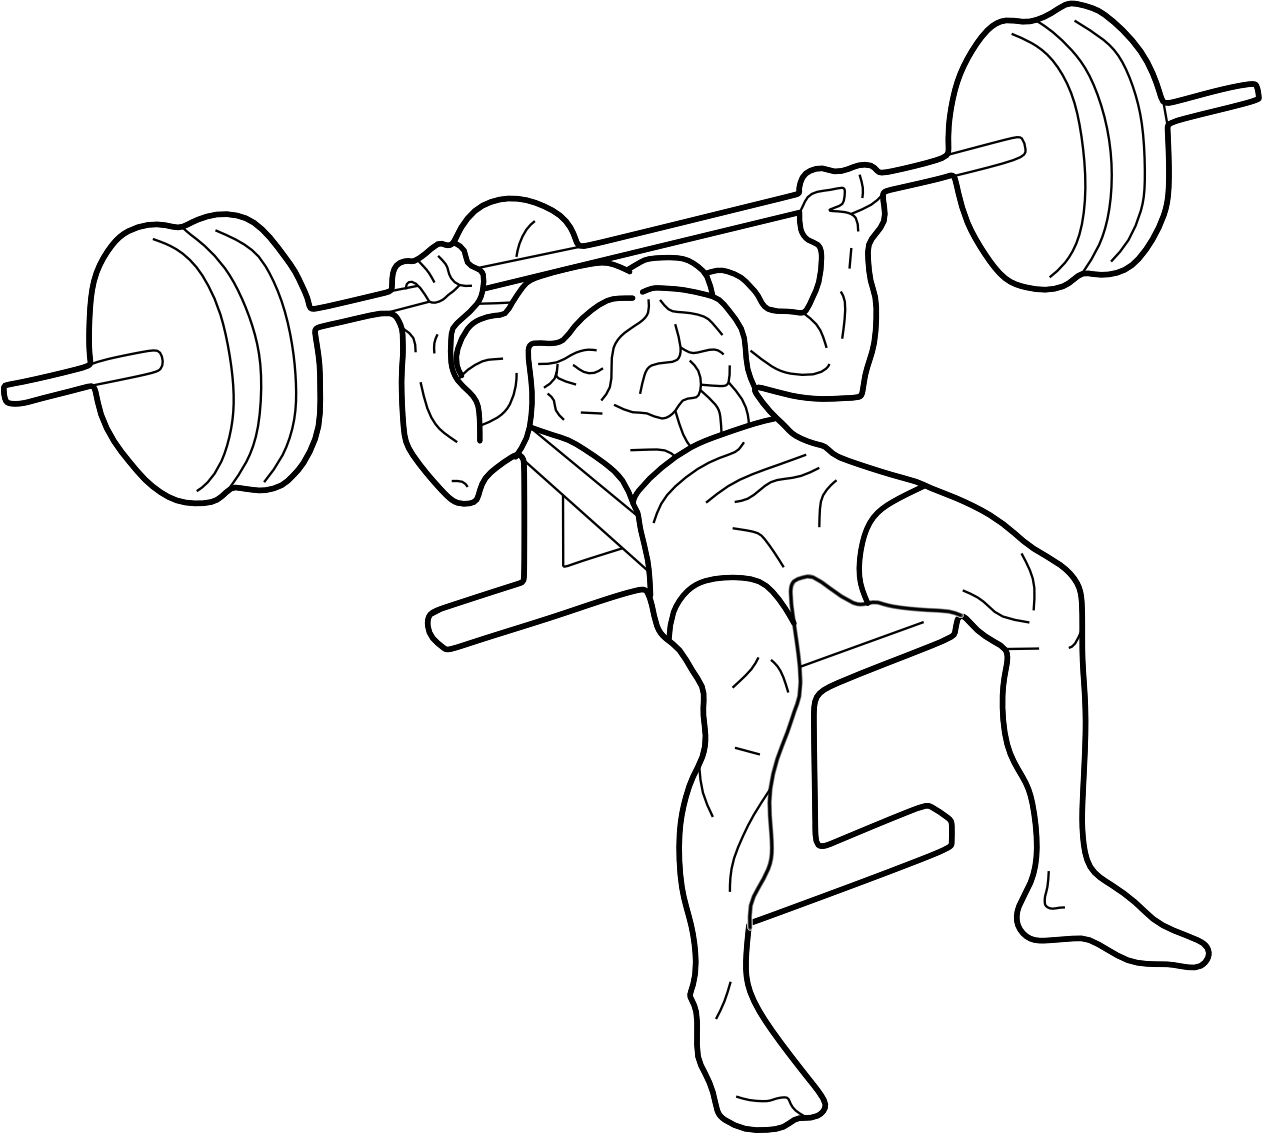
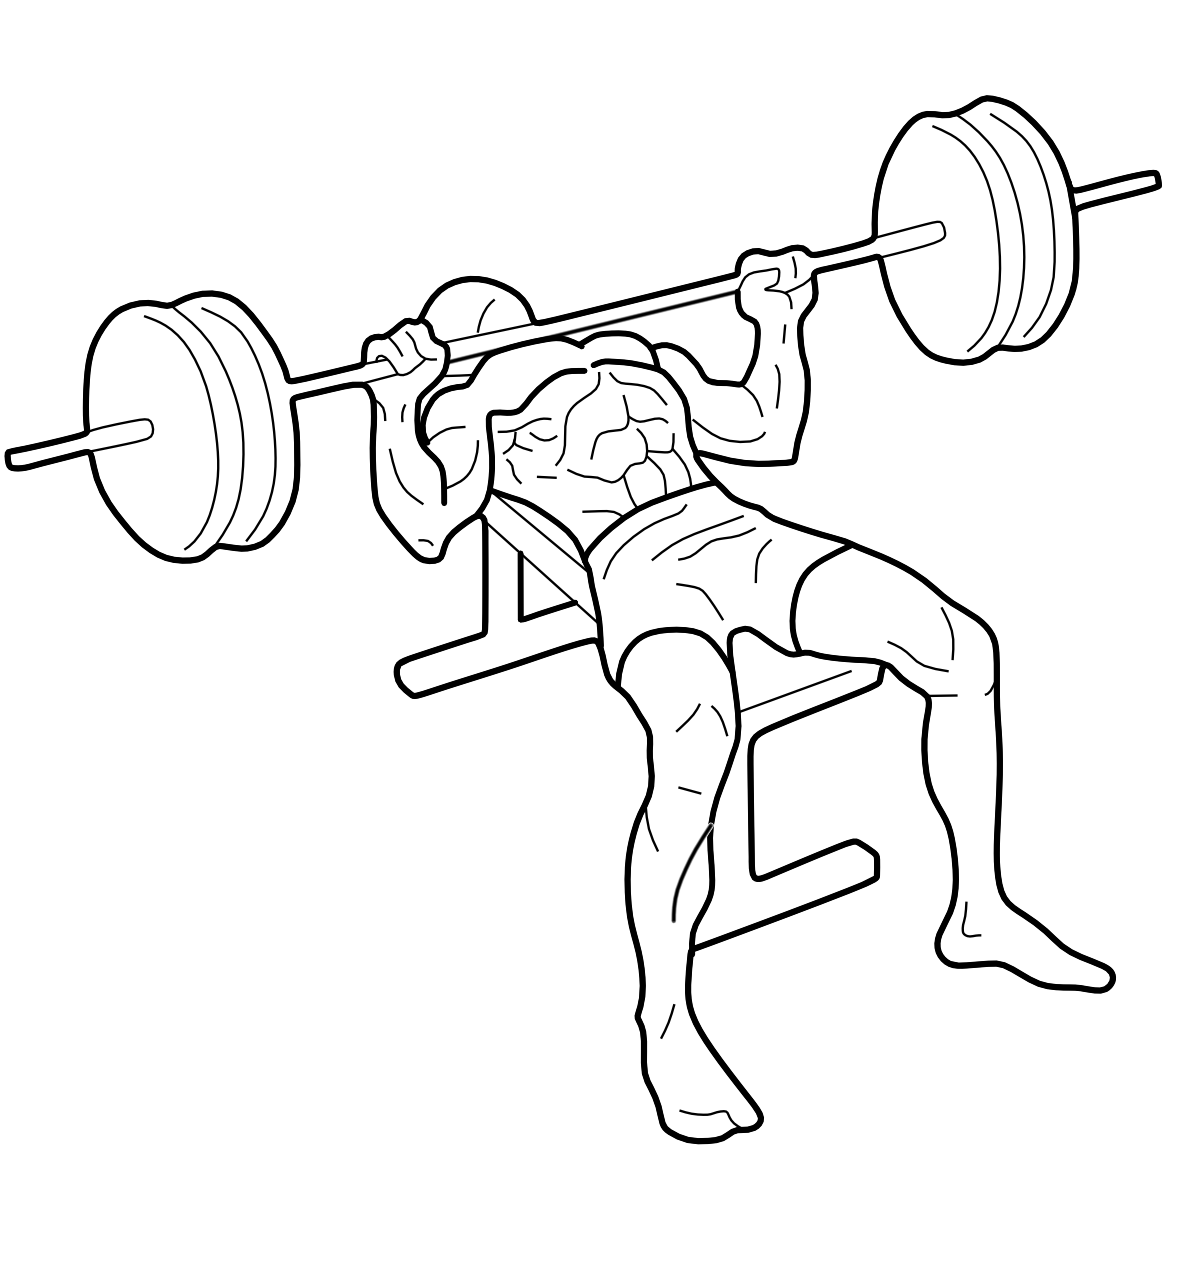
second commmit

Changed region(s): [[0.0, 0.0, 1.0, 1.0], [0.0913, 0.4016, 0.1217, 0.4325]]

diff --git a/style.css b/style.css
@@ -28,12 +28,10 @@ body{
 
 nav{
     width: 100%;
-    height: 60px;
-    background-color: rgba(157, 255, 0, 0.212);
+    height: 10vh;
     display: flex;
     justify-content: space-between;
     align-items: center;
-    padding: 0px 4%;
     position: fixed;
 }
 
@@ -42,11 +40,14 @@ ul{
     justify-content: center;
     align-items: center;
     gap: 15px;
+    width: 100%;
+    position: absolute;
 }
 
 li{
     cursor: pointer;
-    font-weight: 500;
+    font-weight: 600;
+    font-size: 1.3vw;
 }
 
 button{
@@ -57,16 +58,27 @@ button{
 
 #logo{
     height: 40%;
-    width: 150px;
+    width: 12%;
+    margin-left: 4%;
 }
 
 #login{
-    width: 100px;
-    height: 30px;
+    width: 10%;
+    height: 50%;
     background-color: var(--secondary-color);
     color: var(--primary-color);
     border-radius: 5px;
     font-weight: 900;
+    position: absolute;
+    z-index: 2;
+    right: 4%;
+    border: 2px solid var(--secondary-color);
+}
+
+#login:hover{
+    transition: ease .3s;
+    background-color: var(--primary-color);
+    color: var(--secondary-color);
 }
 
 section{
@@ -82,30 +94,24 @@ section{
 
 section > h1{
     margin-left: 4%;
-    font-size: 40px;
-    line-height: 50px;
+    font-size: 7vh;
+    line-height: 60px;
     word-spacing: 5px;
 }
 
-section > button{
+#more{
     font-weight: 900;
     border: 3px solid var(--secondary-color);
     color: var(--secondary-color);
-    width: 150px;
-    height: 45px;
+    width: 40%;
+    height: 50px;
     transition: ease .3s;
     margin-top: 30px;
 }
 
-section button:hover{
+#more:hover{
     color: var(--primary-color);
     background-color: var(--secondary-color);
-}
-
-#login:hover{
-    transition: ease .3s;
-    background-color: var(--primary-color);
-    color: var(--secondary-color);
 }
 
 #fit{
@@ -126,7 +132,7 @@ form{
     display: flex;
     flex-direction: column;
     justify-content: space-evenly;
-    width: 400px;
+    width: 40%;
     height: 500px;
     padding: 15px;
 }
@@ -148,17 +154,17 @@ span> h1{
 
 form span > input{
     width: 100%;
-    padding: 10px 0;
+    padding: 20px 0px;
     cursor: pointer;
     height: 35px;
     background-color: transparent;
     border: none;
-    font-size: 15px;
+    font-size: 20px;
     color: var(--secondary-color);
     border-bottom:3px solid var(--secondary-color);
 }
 
-form span > input:focus{
+#page form span > input:focus{
     outline: none;
 }
 
@@ -177,4 +183,66 @@ form > button:hover{
     transition: ease .3s;
     background-color: var(--secondary-color);
     color: var(--primary-color);
+}
+
+.imc{
+    display: flex;
+    justify-content: center;
+    align-items: center;
+    flex-direction: column;
+    width: 100%;
+    height: 80vh;
+}
+
+.imc form{
+    display: flex;
+    justify-content: center;
+    align-items: center;
+    flex-direction: row;
+    flex-wrap: wrap;
+    gap: 10px;
+    height: 100px;
+    max-height: 100vh;
+    width: 450px;
+}
+
+.imc span{
+    font-weight: 600;
+}
+
+.imc input{
+    width: 120px;
+    height: 50px;
+    background-color: var(--primary-color);
+    border: 2px solid var(--secondary-color);
+    border-radius: 15px;
+    padding: 5px 10px;
+}
+
+.imc button{
+    width: 120px;
+    margin-top: 16px;
+    height: 50px;
+    padding: 10px;
+    background-color: var(--secondary-color);
+    color: var(--primary-color);
+    font-size: 15px;
+}
+
+.imc button:hover{
+    background-color: var(--primary-color);
+    color: var(--secondary-color);
+}
+
+.imc #result{
+    width: 90%;
+    text-align: center;
+    font-size: 20px;
+    color: var(--secondary-color);
+    background-color: white;
+}
+
+.imc img{
+    width: 400px;
+    margin-top: 20px;
 }

diff --git a/imc.html b/imc.html
@@ -1,0 +1,45 @@
+<!DOCTYPE html>
+<html lang="pt-br">
+<head>
+    <meta charset="UTF-8">
+    <meta http-equiv="X-UA-Compatible" content="IE=edge">
+    <meta name="viewport" content="width=device-width, initial-scale=1.0">
+    <link rel="stylesheet" href="style.css">
+    <title>Calcular IMC</title>
+</head>
+<body>
+    
+    <nav>
+        <img id="logo" src="" alt="">
+        <ul>
+            <li class="link">HOME</li>
+            <li class="link">IMC</li>
+            <li class="link">PLANOS</li>
+            <li class="link">SOBRE</li>
+            <li class="link">CONTATO</li>
+            <button id="toggle-theme">Light Theme</button>
+        </ul>
+        <button id="login" class="link">LOGIN</button>
+    </nav>
+    <section id="page">
+        <div class="imc">
+            <h2>CALCULAR IMC</h2>
+            <form class="form_imc" onsubmit="return false;">
+                <span>
+                    Peso <br>
+                    <input type="number" id="peso" maxlength="3" step="0.01">
+                </span>
+                <span>
+                    Altura <br>
+                    <input type="number" id="altura" maxlength="3" step="0.01">
+                </span>
+                <button type="submit" onclick="calcularImc()">CALCULAR</button>
+                <input type="text" id="result" disabled value="RESULTADO">
+            </form>
+            <img src="./images/imcimage.png" alt="">
+        </div>
+    </section>
+</body>
+<script src="./javascript/script.js"></script>
+<script src="./javascript/imc.js"></script>
+</html>

diff --git a/javascript/script.js b/javascript/script.js
@@ -7,6 +7,7 @@ var supino = document.getElementById('supino');
 var themes = 'lighttheme';
 logo.setAttribute('src', `./images/logo_lighttheme.png`);
 fundo.style.backgroundImage = `url(./images/fundo_lighttheme.jpg)`;
+
 //função para alterar o tema
 toggleTheme.onclick = function(){
     
@@ -45,7 +46,7 @@ if(tema != null)
         document.body.classList.toggle('darktheme')
         logo.setAttribute('src', `./images/logo_${tema}.png`)
         fundo.style.backgroundImage = `url(./images/fundo_${tema}.jpg)`
-        supino.setAttribute('src', `./images/supino_${themes}.png`) 
+        
         console.log('certo')
         themes = tema
     }
@@ -55,7 +56,8 @@ if(tema != null)
 links.forEach((link) => {
     link.addEventListener('click', (e) => {
         url = e.target.innerHTML;
-        if(url == 'Home')
+        console.log(url)
+        if(url == 'HOME')
         {
             window.location = `${url}.html?tema=${themes}`
         }
@@ -71,7 +73,6 @@ links.forEach((link) => {
 if(supino != null){
     console.log(supino.value)
     var interval = window.setInterval(function(){
-        console.log(supino.value)
         if(supino.value == undefined){
             supino.setAttribute('src', `./images/supino2_${themes}.png`)
             supino.value = 1

diff --git a/home.html b/home.html
@@ -22,13 +22,13 @@
         <button id="login" class="link">LOGIN</button>
     </nav>
     <section id="page">
-        <h1>ATLAS ACADEMY, <br> A ACADEMIA <br> COM PLANOS <br> DO SEU TAMANHO <br>
-        <button>DESCOBRIR MAIS</button>
+        <h1>ATLAS ACADEMY, <br> A ACADEMIA <br> COM PLANOS <br> DO SEU TAMANHO. <br>
+        <button id="more">DESCOBRIR MAIS</button>
         </h1>
         <img id="fit" src="./images/fit.png" alt="fit">
     </section>
 </body>
-<script src="script.js">
+<script src="./javascript/script.js">
     
 </script>
 </html>

diff --git a/javascript/imc.js b/javascript/imc.js
@@ -1,0 +1,18 @@
+var peso = document.getElementById('peso');
+var altura = document.getElementById('altura');
+var resultado = document.getElementById('result');
+
+function calcularImc(){
+    resultado.value = ''
+
+    if(peso.value != '' && altura.value != ''){
+        const imc = (peso.value / (altura.value * altura.value)).toFixed(2)
+        console.log(imc)
+        if(imc < 18.5){
+            resultado.value = 'abaixo do peso'
+        }
+        else if(imc < 25){
+            resultado.value = 'Normal'
+        }
+    }
+}

diff --git a/login.html b/login.html
@@ -41,7 +41,7 @@
         </form>
     </section>
 </body>
-<script src="script.js">
+<script src="./javascript/script.js">
     
 </script>
 </html>

diff --git a/contato.html b/contato.html
@@ -24,5 +24,5 @@
         
     </section>
 </body>
-<script src="script.js"></script>
+<script src="./javascript/script.js"></script>
 </html>
